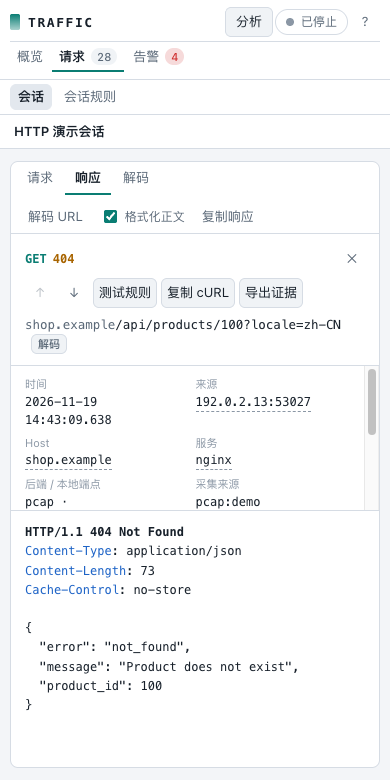
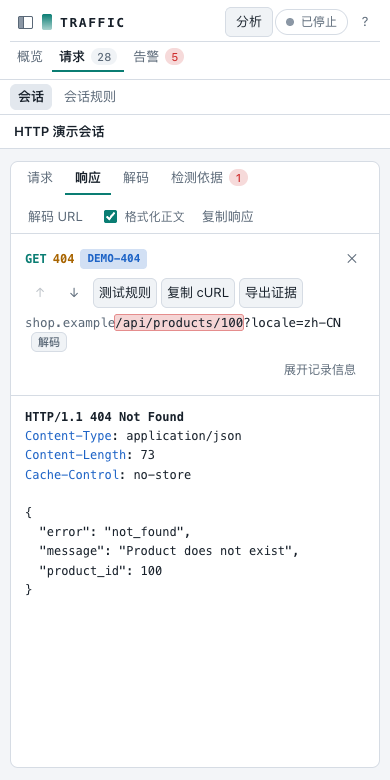
Collapse Web navigation and request metadata on demand

diff --git a/cmd/traffic-console/web/app.css b/cmd/traffic-console/web/app.css
@@ -162,7 +162,7 @@ main > section { flex: 1; min-height: 0; }
 .empty button { margin-top: 10px; }
 
 /* ---- tabs ---- */
-.session { display: flex; flex-direction: column; }
+.session { container: session / inline-size; display: flex; flex-direction: column; }
 .tabs { display: flex; gap: 2px; padding: 0 14px; border-bottom: 1px solid var(--line); background: var(--panel); }
 .tabs button { display: inline-flex; align-items: center; gap: 6px; background: none; border: 0; border-bottom: 2px solid transparent; border-radius: 0; padding: 9px 12px 8px; color: var(--muted); }
 .tabs button:hover { background: none; color: var(--text); }
@@ -333,7 +333,9 @@ table.data td.url { max-width: 0; }
 .method { font: 700 12px var(--mono); color: var(--accent); }
 .status { font: 600 12px var(--mono); }
 .rule { cursor: pointer; padding: 0 7px; border-radius: 4px; border: 0; min-height: 20px; font: 600 11px/20px var(--mono); }
-.detail-url { margin-top: 8px; font: 12.5px/1.5 var(--mono); overflow-wrap: anywhere; max-height: 7.5em; overflow: auto; }
+.detail-context { display: flex; align-items: center; gap: 8px; margin-top: 6px; }
+#detail-meta-toggle { margin-left: auto; font-size: 12px; }
+.detail-url { min-width: 0; font: 12.5px/1.5 var(--mono); overflow-wrap: anywhere; max-height: 7.5em; overflow: auto; }
 .detail-url .host { color: var(--muted); }
 mark { background: var(--mark); color: inherit; border-radius: 2px; box-shadow: 0 0 0 1px color-mix(in srgb, var(--high) 55%, transparent); }
 .meta { display: grid; grid-template-columns: repeat(auto-fill, minmax(210px, 1fr)); gap: 6px 16px; margin: 0; padding: 10px 14px; border-bottom: 1px solid var(--line); max-height: 30%; overflow: auto; }
@@ -414,6 +416,10 @@ button.mini:hover:not(:disabled) { color: var(--accent); border-color: var(--acc
 .decoder-out { padding: 10px; border: 1px solid var(--line); border-radius: 8px; background: var(--panel-2); max-height: 60vh; overflow: auto; }
 
 /* ---- workspace navigation ---- */
+.sidebar-toggle { display: inline-grid; place-items: center; }
+.sidebar-icon { display: block; position: relative; width: 15px; height: 13px; border: 1px solid currentColor; border-radius: 2px; }
+.sidebar-icon::before { content: ""; position: absolute; inset: 0 auto 0 0; width: 4px; border-right: 1px solid currentColor; }
+.sidebar-toggle[aria-expanded="true"] .sidebar-icon::before { background: var(--faint); }
 .sidebar { flex: 0 0 112px; display: flex; flex-direction: column; gap: 4px; padding: 10px 8px; border-right: 1px solid var(--line); background: var(--panel); }
 .sidebar a { padding: 6px 10px; border-radius: 6px; color: var(--muted); text-decoration: none; white-space: nowrap; }
 .sidebar a:hover { color: var(--text); background: var(--panel-2); }
@@ -552,6 +558,8 @@ button.danger { color: var(--high); }
 }
 @media (max-width: 1240px) {
   .grid.three, .grid.two { grid-template-columns: minmax(0, 1fr); }
+}
+@container session (max-width: 1128px) {
   .split.open { grid-template-columns: minmax(0, 1fr); }
   .split.open .pane.rows, .split.open .splitter { display: none; }
   .hint-drag { display: none; }
@@ -564,7 +572,11 @@ button.danger { color: var(--high); }
   .top { flex-wrap: wrap; padding: 7px 10px; gap: 2px; }
   .session-tabs button { padding-inline: 7px; }
   .workspace { flex-direction: column; }
-  .sidebar { flex: none; flex-direction: row; padding: 4px 10px; border-right: 0; border-bottom: 1px solid var(--line); }
+  .sidebar-toggle { display: inline-grid; place-items: center; }
+.sidebar-icon { display: block; position: relative; width: 15px; height: 13px; border: 1px solid currentColor; border-radius: 2px; }
+.sidebar-icon::before { content: ""; position: absolute; inset: 0 auto 0 0; width: 4px; border-right: 1px solid currentColor; }
+.sidebar-toggle[aria-expanded="true"] .sidebar-icon::before { background: var(--faint); }
+.sidebar { flex: none; flex-direction: row; padding: 4px 10px; border-right: 0; border-bottom: 1px solid var(--line); }
   .sidebar a { padding: 3px 8px; }
   .brand { letter-spacing: .12em; margin-right: 6px; }
   .search kbd, #tz, #theme, .crumb .host, .crumb .sep.h, .crumb .started { display: none; }
@@ -591,5 +603,6 @@ button.danger { color: var(--high); }
   .detail-actions { grid-area: 2 / 1 / auto / -1; margin-left: 0; gap: 4px; }
   .detail-actions button, .detail-actions .button { padding-inline: 5px; }
   .detail-tools { margin-left: 0; justify-content: flex-end; }
+  .detail-context { flex-wrap: wrap; gap: 2px 8px; }
   .meta { grid-template-columns: repeat(2, minmax(0, 1fr)); }
 }

diff --git a/cmd/traffic-console/web/app.js b/cmd/traffic-console/web/app.js
@@ -73,7 +73,8 @@ const state = {
   selected: null,
   detail: null,
   detailError: '',
-  detailTab: saved('detail-tab', 'request'),
+  detailTab: 'request',
+  sidebarCollapsed: saved('sidebar-collapsed', '0') === '1',
   pretty: saved('pretty', '1') === '1',
   paused: false,
   utc: saved('tz', 'local') === 'utc',
@@ -293,7 +294,8 @@ function show(view) {
   $('session-tabs').hidden = $('session-analyze').hidden = $('live').hidden = view !== 'session';
   if (view !== 'session') $('session-analysis').close();
   if (view !== 'session') $('pause').hidden = true;
-  $('mainnav').hidden = view === 'gate';
+  $('sidebar-toggle').hidden = view === 'gate';
+  renderSidebar();
   const section = view === 'session' ? 'sessions' : view;
   for (const link of document.querySelectorAll('[data-nav]')) {
     if (link.dataset.nav === section) link.setAttribute('aria-current', 'page');
@@ -386,6 +388,16 @@ function route() {
 }
 
 // ---- chrome ----
+
+function renderSidebar() {
+  const button = $('sidebar-toggle');
+  const expanded = !state.sidebarCollapsed;
+  $('mainnav').hidden = button.hidden || !expanded;
+  button.setAttribute('aria-expanded', String(expanded));
+  const label = expanded ? '收起侧边栏' : '展开侧边栏';
+  button.setAttribute('aria-label', label);
+  button.title = label;
+}
 
 const currentSession = () => state.sessions.find((s) => s.id === state.sid);
 
@@ -931,6 +943,8 @@ async function showDetail(id, quiet) {
   if (!quiet) {
     state.selected = id;
     state.detailError = '';
+    state.detailTab = 'request';
+    setDetailMetaExpanded(false);
     if (state.detail && state.detail.transaction.id !== id) state.detail = null;
     $('detail').hidden = $('splitter').hidden = false;
     $('split').classList.add('open');

diff --git a/cmd/traffic-console/web/index.html b/cmd/traffic-console/web/index.html
@@ -10,6 +10,9 @@
 </head>
 <body>
 <header class="top">
+  <button type="button" class="ghost icon sidebar-toggle" id="sidebar-toggle" aria-controls="mainnav" aria-expanded="true" aria-label="收起侧边栏" hidden>
+    <span class="sidebar-icon" aria-hidden="true"></span>
+  </button>
   <a class="brand" href="#/" title="会话列表"><span class="brand-mark" aria-hidden="true"></span>TRAFFIC</a>
   <nav class="tabs session-tabs" id="session-tabs" role="tablist" aria-label="会话视图" hidden>
     <button type="button" role="tab" data-tab="overview" title="概览（快捷键 1）">概览</button>
@@ -194,9 +197,12 @@
               </div>
               <button type="button" class="ghost icon" id="detail-close" title="关闭（Esc）" aria-label="关闭详情">✕</button>
             </div>
-            <div class="detail-url" id="detail-url"></div>
+            <div class="detail-context">
+              <div class="detail-url" id="detail-url"></div>
+              <button type="button" class="ghost" id="detail-meta-toggle" aria-controls="detail-meta" aria-expanded="false" hidden>展开记录信息</button>
+            </div>
           </header>
-          <dl class="meta" id="detail-meta"></dl>
+          <dl class="meta" id="detail-meta" hidden></dl>
           <div class="detail-body" id="detail-body" tabindex="-1"></div>
         </aside>
       </div>

diff --git a/cmd/traffic-console/web/main.js b/cmd/traffic-console/web/main.js
@@ -54,6 +54,12 @@ function bind() {
     route();
     pollAnalysisJob();
   });
+  $('sidebar-toggle').addEventListener('click', () => {
+    state.sidebarCollapsed = !state.sidebarCollapsed;
+    save('sidebar-collapsed', state.sidebarCollapsed ? '1' : '0');
+    renderSidebar();
+    if (state.sid) renderTimelines();
+  });
   $('rescan').addEventListener('click', () => loadSessions(true));
   $('sessions-search').addEventListener('input', renderSessions);
   $('pause').addEventListener('click', togglePause);
@@ -122,6 +128,7 @@ function bind() {
   $('page-first').addEventListener('click', () => changePage(0));
   $('page-prev').addEventListener('click', () => changePage(state.page - 1));
   $('page-next').addEventListener('click', () => changePage(state.page + 1));
+  $('detail-meta-toggle').addEventListener('click', () => setDetailMetaExpanded($('detail-meta').hidden));
   $('detail-close').addEventListener('click', () => go({ id: null }, true));
   $('detail-prev').addEventListener('click', () => moveSelection(-1));
   $('detail-next').addEventListener('click', () => moveSelection(1));

diff --git a/cmd/traffic-console/web/decoder.js b/cmd/traffic-console/web/decoder.js
@@ -275,9 +275,17 @@ function availableTabs(data) {
   return DETAIL_TABS.filter(([key]) => (key !== 'decoded' || data.decoded_view || data.response_decoded_view) && (key !== 'alerts' || alerts));
 }
 
+function setDetailMetaExpanded(expanded) {
+  const button = $('detail-meta-toggle');
+  $('detail-meta').hidden = !expanded;
+  button.setAttribute('aria-expanded', String(expanded));
+  button.textContent = expanded ? '收起记录信息' : '展开记录信息';
+}
+
 function renderDetail() {
   const data = state.detail;
   const body = $('detail-body');
+  $('detail-meta-toggle').hidden = !data;
   const controls = ['detail-curl', 'detail-export', 'detail-copy', 'pretty'];
   if (!data) {
     $('detail-test').removeAttribute('href');
@@ -374,7 +382,6 @@ function decodeSelection() {
 
 function setDetailTab(key) {
   state.detailTab = key;
-  save('detail-tab', key);
   $('detail-body').scrollTop = 0;
   renderDetail();
 }

diff --git a/docs/guide.md b/docs/guide.md
@@ -248,12 +248,12 @@ IIS、Windows nginx/apache 和通用 OpenSSL 的探针参数见 [Windows 采集]
 
 启动后 stderr 会打印带访问令牌的地址，直接打开即可。默认只监听回环，远程分析建议用 `ssh -L 8080:127.0.0.1:8080 user@host` 转发；`--allow-remote` 会让令牌和正文以明文过网，只用于隔离网络。
 
-页面分为会话选择、概览、请求和告警四部分，地址栏记录当前会话、标签、筛选条件和打开的记录，刷新、后退和复制地址都会回到同一视图。
+页面分为会话选择、概览、请求和告警四部分。左上角可收起或展开会话导航，浏览器会记住这个设置。地址栏记录当前会话、标签、筛选条件和打开的记录，刷新、后退和复制地址都会回到同一视图。
 
 - **会话选择**按日期分组，显示状态、主机、请求数和告警数，可按名称、主机或目录查找。
 - **概览**显示累计计数、数据缺口提示、请求与告警时间线、命中规则、来源地址、告警级别和响应状态分布、最近告警以及采集状态。点击规则、来源或分布项会跳到对应的筛选结果，在时间线上拖选会把列表限定到这段时间。
 - **请求 / 告警列表**每页 100 条，支持 Host/URL 关键词、级别、响应状态、请求方法、来源地址、规则、服务和起止时间组合筛选，输入后即时生效。关键词默认匹配原文；旁边的下拉框可改为「URL 解码 1 次 / 2 次 / 3 次后匹配」，用于查找 `%2520` 这类多重编码的载荷，排除关键词同样按此方式匹配。「隐藏静态资源」去掉 js、css、图片、字体等请求；「更多条件」中可填排除关键词（空格或逗号分隔）、包含参数（按参数名匹配，如 `cmd` 不会命中 `xcmd`）以及精确状态码（如 `403`）。列表上方的时间线随筛选条件变化，同样可以拖选缩小范围。翻到历史页时保持当前位置，并提示新到达的请求数。
-- **详情**顶部提供「请求」「响应」「解码」标签，下方显示请求状态、操作、原始 URL 和记录信息。详情区足够宽时，请求和响应并排显示。查询参数可在原始 URL 和解码来源中查看。请求内容会标出规则命中的片段，JSON 正文可格式化显示。gzip 请求和响应正文在「解压正文」中查看。
+- **详情**顶部提供「请求」「响应」「解码」标签，下方显示请求状态、操作和原始 URL。打开请求时直接显示报文，详情区足够宽时请求和响应并排显示。点击「展开记录信息」可查看时间、来源、Host、服务等字段，再次点击可收起。查询参数可在原始 URL 和解码来源中查看。请求内容会标出规则命中的片段，JSON 正文可格式化显示。gzip 请求和响应正文在「解压正文」中查看。
 - **解码**标签是手动的逐步解码工具：从下拉框选择来源（完整 URL、路径、各查询参数、Cookie、表单参数、请求正文、常见请求头），或点击参数旁的「解码」、URL 旁的「解码」、命中片段下的「解码片段」，也可以选中任意文字后按 `d`。可用的解码有 URL、URL（保留 +）、Base64（含 URL 安全变体）、Hex、HTML 实体、Unicode / JS 转义（`\uXXXX`、`%uXXXX`、`\xHH` 等）、JWT（只解头部和载荷，不校验签名）、Gzip / Deflate 解压。每一步都在上一步结果上继续，例如「URL → URL → Base64」，步骤条上可点回任一步或撤销；能对当前结果生效的解码按钮会高亮。二进制结果可切换十六进制显示。解码只在浏览器中进行，不改动采集数据。来源、Host、服务和规则可以直接点击作为筛选条件。“复制 cURL”生成可复现请求的命令，“导出证据”下载与 `traffic-console export` 相同的 ZIP，采集进行中时导出会被拒绝。
 
 采集中的会话按 `--refresh` 间隔自动刷新，默认每秒一次，最小 500 毫秒。已结束的会话降为每 5 秒检查一次，时间线和统计的刷新间隔不低于 5 秒。索引较大时，响应状态分布超过 1.5 秒会被跳过并在页面上说明。右上角可以切换本地时间与 UTC、深色与浅色配色，详情栏宽度可拖动调整。
